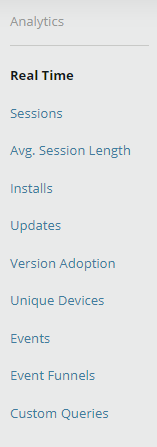
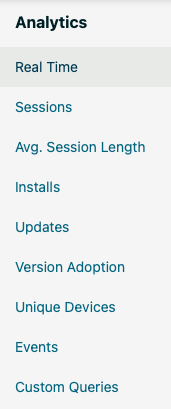
APPTS 9.0.0 release note and updates (#41)
* rm event funnels refs

* add APPTS 9.0.0 release note

* improve APPTS description, rm outdated supported browser versions, link to browser support page

* no bare urls huh

* periods and grammatical fix

* fixed grammatical error

* fix grammatical error

* updated analytics menu to remove event funnels menu item

* update usage tab screen shot

* updated viewing usage steps

diff --git a/content/en/docs/dashboard_guide/managing_applications/viewing_analytics.md b/content/en/docs/dashboard_guide/managing_applications/viewing_analytics.md
@@ -1,7 +1,7 @@
 ---
 title: Viewing analytics
 linkTitle: Viewing analytics
-description: View detailed analytics for each application. 
+description: View detailed analytics for each application.
 weight: 40
 date: 2021-08-12
 ---
@@ -10,7 +10,7 @@ date: 2021-08-12
 
 Click Dashboard - Apps - <_Client App_\> - Analytics to navigate to the **Analytics** tab. The **Analytics** tab lets you view detailed analytics for each application. The **Analytics** tab contains several sub-tabs to view different metric categories and create event funnels and queries.
 
-![Analyitcs menu](/Images/analytics_tab.png)
+![Analytics menu](/Images/analytics_tab.png)
 
 * Real Time
 * Sessions
@@ -20,7 +20,6 @@ Click Dashboard - Apps - <_Client App_\> - Analytics to navigate to the **Analyt
 * Version Adoption
 * Unique Devices
 * Events
-* Event Funnels
 * Custom Queries
 
 Each sub-tab is explained below.
@@ -137,16 +136,6 @@ The **Events** tab lists the name and number of each custom events generated by
 The **Events** tab also displays events generated by the [Mobile Backend Services](https://docs.axway.com/bundle/Mobile_Backend_Services_allOS_en/page/mobile_backend_services.html) API calls. Mobile Backend Services API events are named `cloud-class-method`.
 
 ![Events menu](/Images/analytics_events.png)
-
-### Event Funnels tab
-
-The **Event Funnels** tab lets you create new event funnels, edit existing event funnel, and view event funnel analytics for the selected time interval and environment. To export the metrics data, click the **Action Menu** icon in the upper-right of the screen. For details on exporting the metrics, refer to [Download analytics data](#download-analytics-data). To scale the analytics display to the current page, select **Scale to the current page**.
-
-![Event funnels menu](/Images/analytics_event_funnels.png)
-
-An event funnel is a sequence of custom events you define that corresponds to a process you want to measure and analyze. For example, a shopping application would likely want to measure the flow of users through the process of searching for, viewing, and purchasing a product. By analyzing event funnel data, you can identify, for example, where users drop out of the purchase process. For instructions on creating and viewing event funnels, see the Creating and Viewing Event Funnels section in [Amplify Appcelerator Analytics](https://docs.axway.com/bundle/Amplify_Appcelerator_Services_allOS_en/page/amplify_appcelerator_analytics.html).
-
-![Analyze event funnel data](/Images/image2014_1_1_19_12_14.png)
 
 ### Custom Queries tab
 

diff --git a/content/en/docs/_index.md b/content/en/docs/_index.md
@@ -3,35 +3,27 @@ title: Amplify Platform Management
 linkTitle: Amplify Platform Management
 description: The Amplify Platform Management interface is used to manage the Amplify API Management Platform.
 weight: 10
-date: 2021-08-12
+date: 2021-12-09
 ---
 
 ## Introduction
 
-Amplify API Management Platform hides integration complexity, enforces IT policy and scales at will, providing centralized visibility, control and a marketplace for all your integration assets. This guide is for using the Amplify Platform Management interface to manage the following for the platform:
+Amplify API Management Platform hides integration complexity, enforces IT policy and scales at will, providing centralized visibility, control and a marketplace for all your integration assets. This guide is for using the Amplify Platform Management interface to perform the following:
 
-* Users and accounts
-* Organizations
-* Billing
-* Members and teams
-
-Also use the interface to:
-
-* Create and manage applications
-* View application metrics and analytics
-* Visualize the health of your business
+* Manage account settings and credentials
+* Manage organization settings, users, service accounts, and teams
+* Retrieve organization usage data
+* Register and manage applications
+* Retrieve application metrics and analytics
+* Retrieve user, organization, and application activity
 
 ## Browser support
 
-The {{% variables/platform_prod_name %}} supports the following browsers:
+Browser support for the Amplify Platform Management interface is determined by active support by the browser vendor and market share greater than 0.1%. Generally, this includes vendors' last three major versions and other browsers based on their technology (such as Brave which is based on Chromium). However, it may exclude minor versions for which vendors have provided security updates.
 
-* Google Chrome 61+
-* Mozilla Firefox 52+
-* iOS Safari 11.1+
-* Microsoft Edge 17+
-* Internet Explorer 11 (has been deprecated with an end of support date of September 30, 2020).
+Support also includes vendors' latest Enterprise or Extended Support Release (ESR) versions.
 
-If you try to access the {{% variables/platform_prod_name %}} in an unsupported browser, you will be redirected to the [Supported Browsers](https://platform.axway.com/browser) page.
+Please see the [Supported Browsers](https://platform.axway.com/browser) page for currently supported browser vendors and versions.
 
 ## Next steps
 

diff --git a/content/en/docs/release_notes/09_00_00_relnotes.md b/content/en/docs/release_notes/09_00_00_relnotes.md
@@ -1,0 +1,29 @@
+---
+title: Platform Management 9.0.0 release notes
+linkTitle: Platform Management 9.0.0 release notes
+description: Improvements and bug fixes for the release.
+weight: 94
+date: 2021-12-09
+Hide_readingtime: true
+---
+
+## Platform Management 9.0.0 - 9 December 2021
+
+Platform Management 9.0.0 is a major release which includes several improvements and one bug fix.
+
+With this release, use of the [https://dashboard.appcelerator.com](https://platform.axway.com) URL to access Platform Management UI or API is no longer supported and requests will issue a redirect to the current URL of [https://platform.axway.com](https://platform.axway.com).
+
+Also, with this release, the _Event Funnels_ feature in _App Analytics_ is no longer available. Users can retrieve event counts using the _Custom Queries_ feature.
+
+## Improvements
+
+* Updated the Platform Management user interface to provide more consistent look and feel, page layouts, tables, and form views with other Amplify Platform services' UIs.
+* Updated the layout of the organization _Usage_ view to group entitlements and their usage and quotas under each subscribed product.
+* Added improved form validation interactions; fields are now validated during interaction and display messages to help guide users to provide valid inputs.
+* Added "dirty form" detection; users are now presented with a confirmation when attempting to navigate away from a form view in which changes have been provided without saving.
+* Added Agent and Central asset events to organization _Activity_ view.
+* Improved consistency and completeness of response samples in Platform Management API documentation.
+
+## Fixed issue
+
+* Fixed an issue where filters may not apply on the **Mobile Backend Services** Push Notification _Subscribed Devices_ table view.

diff --git a/content/en/docs/management_guide/organizations/managing_organizations.md b/content/en/docs/management_guide/organizations/managing_organizations.md
@@ -208,8 +208,8 @@ The **Usage** tab enables you to view the usage of allocated resources for the 
 2. Click on the **User & Org** menu and select **Organization**.
 3. Click the **Usage** tab from the left navigation.
 4. If you're a member of multiple organizations, select the organization you want to view from the _Usage_ dropdown menu.
-5. Select **All Products** or a specific product from the dropdown.
-6. Select a month and year from the dropdown.
+5. Select a month and year from the dropdown.
+6. You can select **Show Environments**.
 
 Refer to the __*[Amplify Subscription Usage With Edge Agent 1.0](https://docs.axway.com/bundle/subusage_en/page/amplify_subscription_usage_and_reporting.html)*__ or __*[Amplify Subscription Usage](https://docs.axway.com/bundle/subusage_11_en/page/amplify_subscription_usage_and_reporting.html)*__ guide for details on configuring, reporting, and monitoring usage data for customer-managed on-premise Axway products that you use under subscription agreements.
 

diff --git a/content/en/docs/dashboard_guide/managing_applications/managing_client_applications/_index.md b/content/en/docs/dashboard_guide/managing_applications/managing_client_applications/_index.md
@@ -67,10 +67,6 @@ The **Analytics** tab displays real-time analytics, such as the number of active
 
 You can also view custom events captured by your application using the Titanium.Analytics object, or the performance APIs provided by the Platform Services SDK for [iOS](https://docs.axway.com/bundle/Amplify_Appcelerator_Services_allOS_en/page/aps_analytics_for_ios.html) or [Android](https://docs.axway.com/bundle/Amplify_Appcelerator_Services_allOS_en/page/aps_analytics_for_android.html).
 
-You can define event funnels, or custom ordered collections of captured events that track a particular user or business process, such as a sales funnel (for example, purchase and purchase confirm).
-
-![Analytics page](/Images/analytics_event_funnels.png)
-
 For more information, see [Viewing Analytics](/docs/dashboard_guide/managing_applications/viewing_analytics/).
 
 ## Application preview
